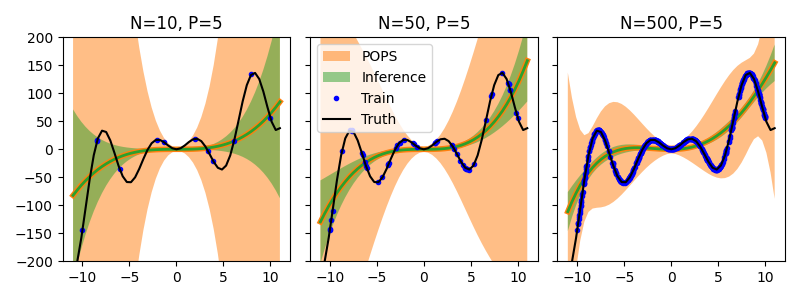
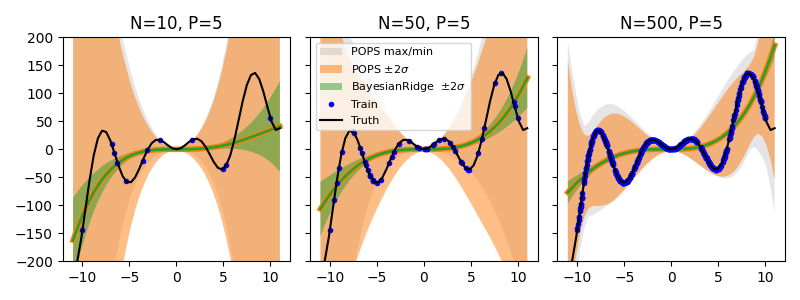
better figure

Changed region(s): [[0.0625, 0.12, 0.7188, 0.87], [0.6875, 0.12, 0.9688, 0.87], [0.7188, 0.33, 0.8125, 0.45]]

diff --git a/README.md b/README.md
@@ -72,4 +72,6 @@ Green: two sigma of `sigma_` weight uncertainty from Bayesian Regression (i.e. w
 
 Orange: two sigma of `sigma_` and `misspecification_sigma_` posterior from POPS Regression
 
+Gray: min-max of posterior from POPS Regression
+
 <img src="https://github.com/tomswinburne/POPS-Regression/blob/main/example_image.png?raw=true"></img>
